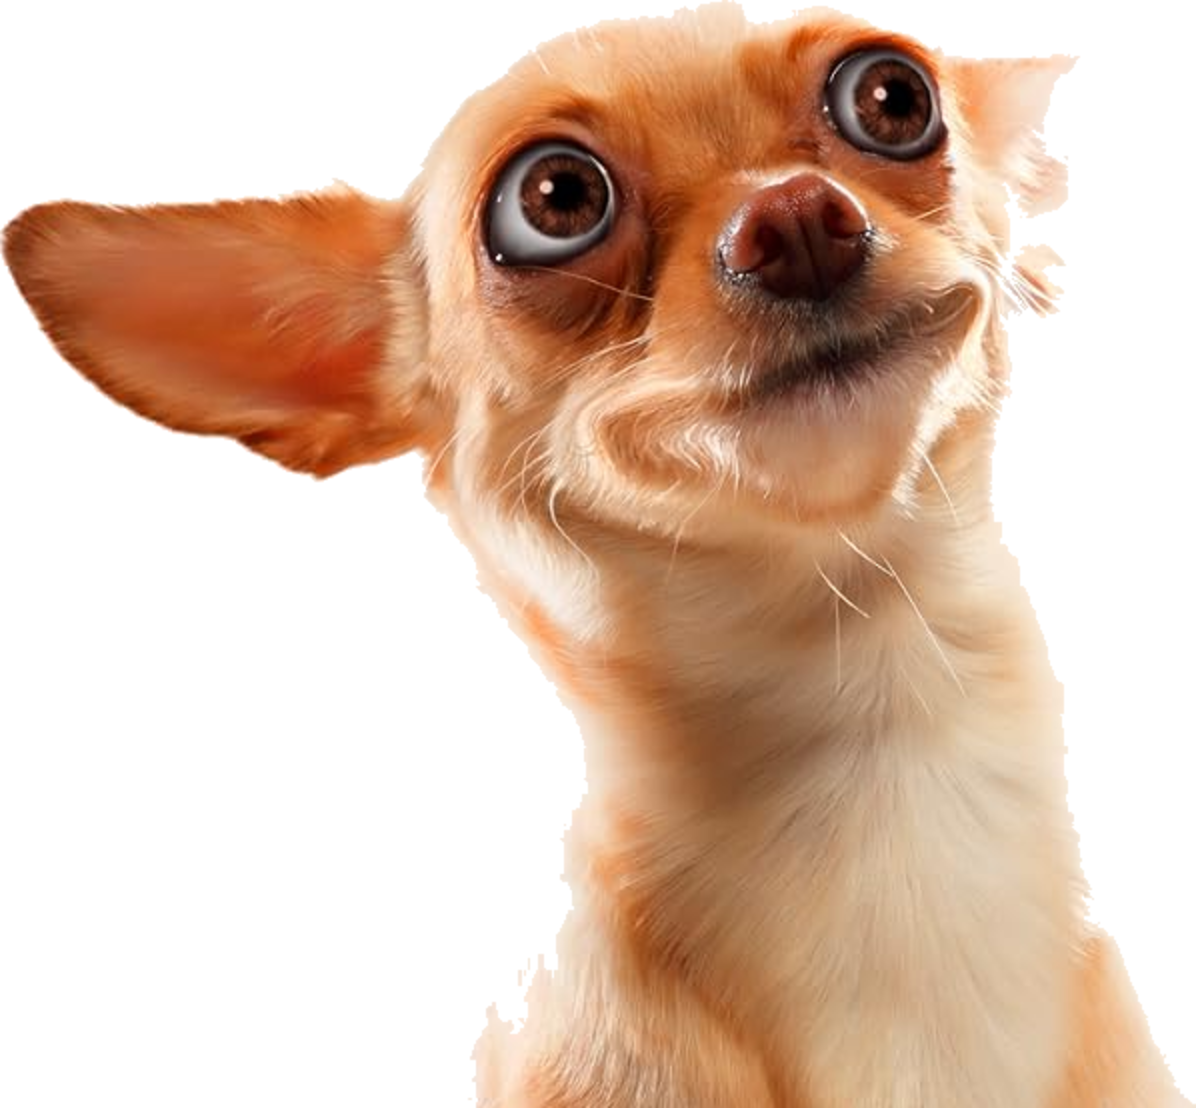
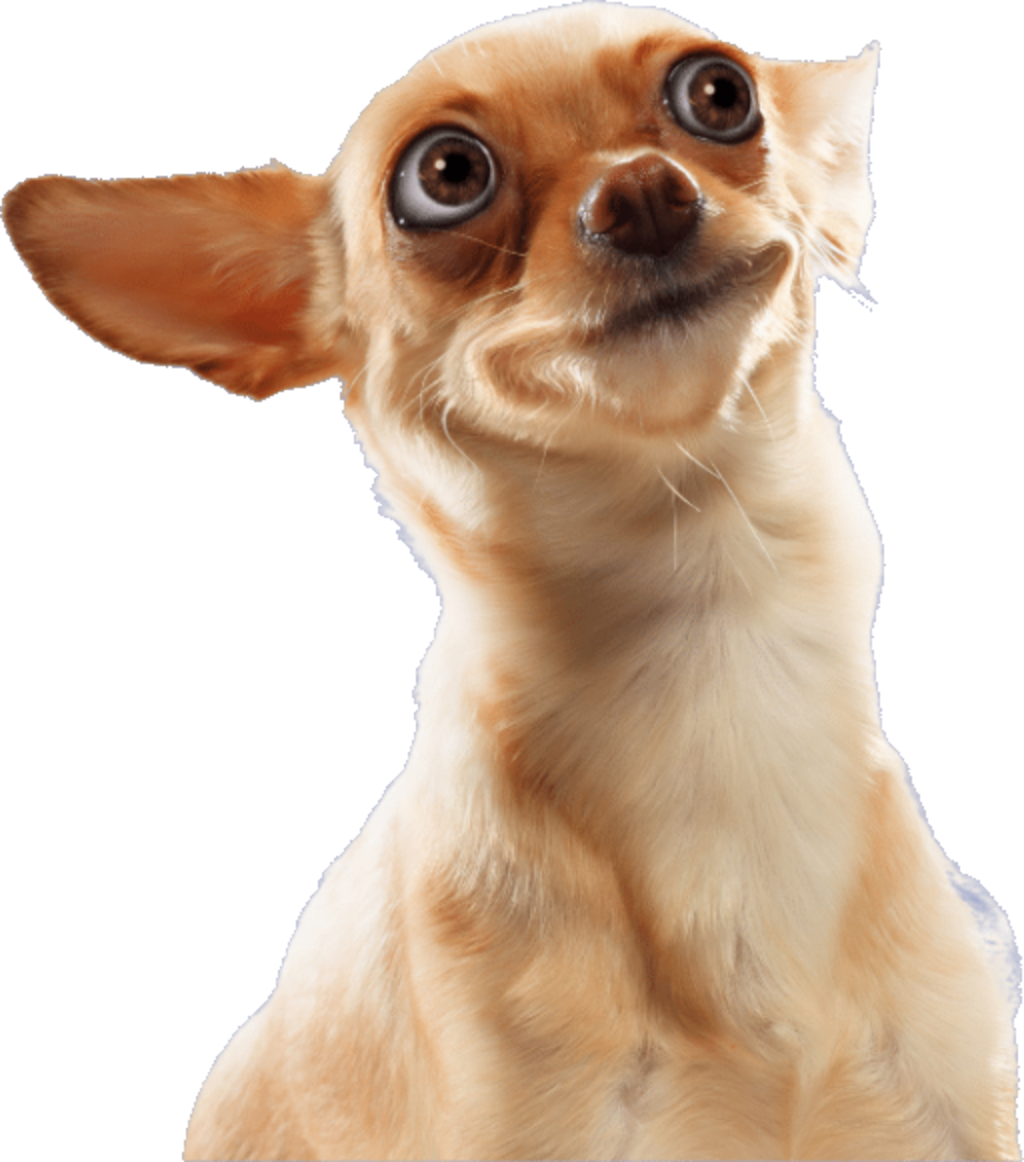
heartbeat: recut the dog from a lavender-background photo
The white-background source could not be separated from the dog's pale ear:
10% fuzz chewed notches out of it, 2% spared the ear but left the background.
The new photo sits on flat #A3ABCF, far from cream fur, so 8% cuts clean at
the edges without touching the ear. No mirror this time — the new framing
already points the muzzle into the screen.

diff --git a/Sources/VictorAddons/MenuBarManager.swift b/Sources/VictorAddons/MenuBarManager.swift
@@ -3,7 +3,7 @@ import Foundation
 import UserNotifications
 
 class MenuBarManager: NSObject, NSMenuDelegate {
-    static let BUILD_TIME = "Aug 26, 18:33"
+    static let BUILD_TIME = "Aug 26, 18:48"
 
     struct TranscriptionDebugState {
         let isTranscribing: Bool

diff --git a/docs/overlay-effects.md b/docs/overlay-effects.md
@@ -203,10 +203,17 @@ rule from the start.
   `makeHeartbeatDogLayer`), pinned to the **left half of the screen**, centred in that
   half and bottom-aligned — the photo is cropped at the chest, so letting the body run
   off the bottom edge is what makes it read as a dog leaning into frame rather than a
-  sticker floating in mid-air. The asset is the source photo with its caption painted
-  out and its white studio background flood-filled to **real alpha** (not a white box),
-  so the pulsing capture shows through around the fur, and it is **mirrored** so a dog
-  that tilted its head toward the edge of the original now leans *into* the screen.
+  sticker floating in mid-air. The asset is the source photo with its background
+  flood-filled from the corners to **real alpha** (not a coloured box), so the pulsing
+  capture shows through around the fur. **Which photo matters more than the fuzz value**:
+  the first attempt cut the dog out of a white studio shot, and a chihuahua's pale ear
+  fades into white so gradually that no single threshold separates the two — 10 % chewed
+  notches out of the ear, and dropping to 2 % (which spared it) left behind the very
+  background it was there to remove. The shot actually shipped sits on flat lavender
+  (`#A3ABCF`), nowhere near cream fur, so **8 % is clean at the edges *and* nowhere near
+  the ear**. It is **not mirrored**: this photo already faces the way the effect needs
+  (muzzle pointing right, i.e. into the screen from the left half) — the flop the
+  white-background version needed was a property of that framing, not a rule.
   The dog is a **sibling of the capture layer, not a child**: the pulse animation is
   added to the capture alone, so the screen zooms while the dog stays nailed down.
   Both live inside a **container**, and it is the container that goes into
